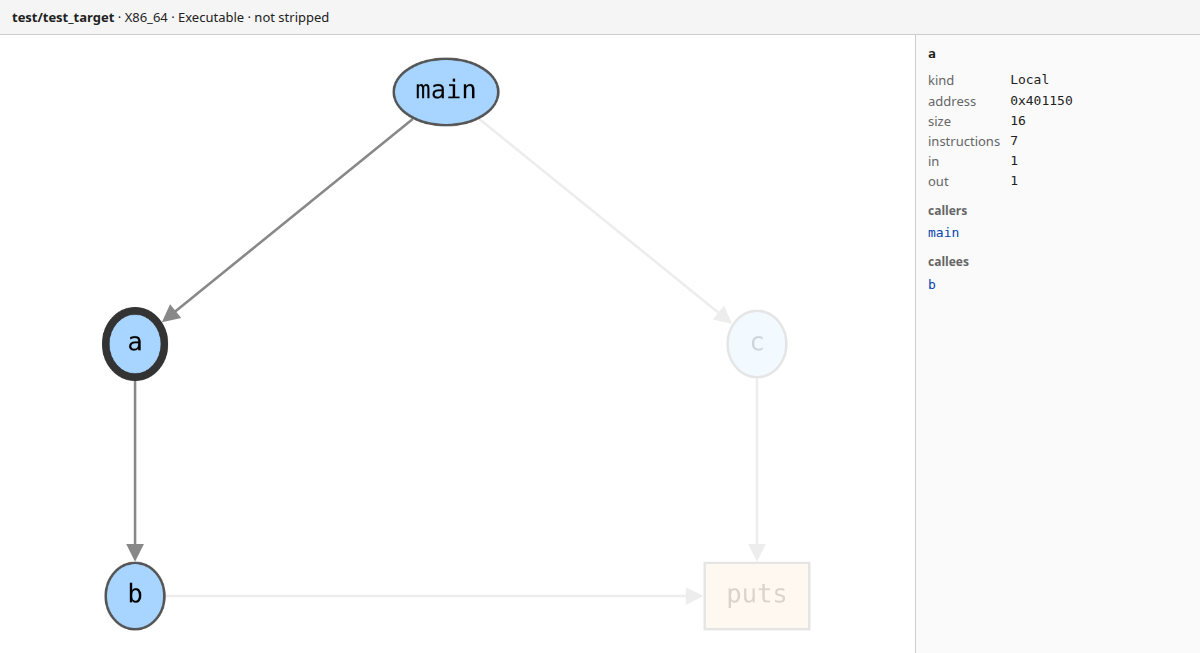
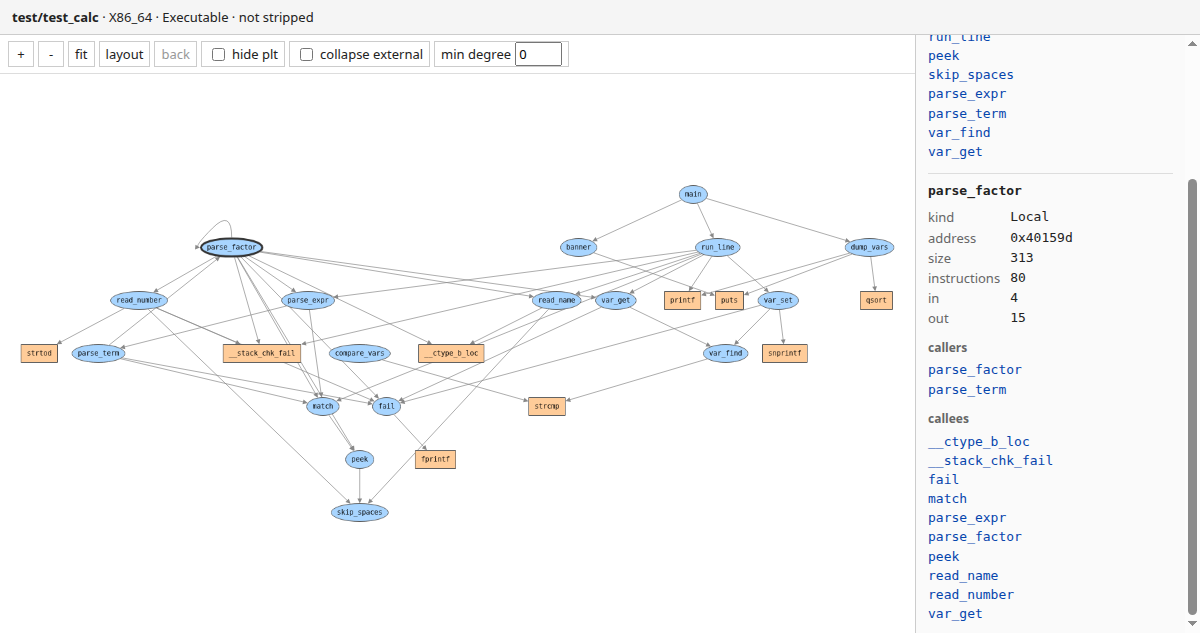
update readme for explorer

diff --git a/README.md b/README.md
@@ -64,14 +64,37 @@ Graph: 5 nodes, 5 edges
 
 `--serve <port>` starts an HTTP server on `127.0.0.1` and keeps it in the
 foreground; the DOT file is written as usual before it comes up. `/` is a single
-page that fetches `/api/report` and draws the graph with cytoscape.js from a
-CDN, so the browser needs network access. Local functions are blue ellipses, PLT
-stubs orange rectangles, unresolved targets grey. Clicking a node highlights its
-neighbourhood and fills the side panel with address, size, instruction count,
-in/out counts and clickable caller and callee lists. `/api/report` serves the
-same report that `--json` writes.
+page that draws the graph with cytoscape.js and dagre from CDNs, so the browser
+needs network access. Local functions are blue ellipses, PLT stubs orange
+rectangles, unresolved targets grey.
+
+Graphs up to 300 nodes are drawn whole. Bigger ones open as an explorer: the
+scene starts at `main` (or the entry point) and a click on a node adds its
+direct callers and callees; a `+` after a name marks neighbours not on screen
+yet. The panel has a substring search over every function, root lists (entry
+point, exported functions, most called) that restart the scene from a new seed,
+and for the selected node its address, size, instruction count, in/out counts
+and clickable caller and callee lists. The toolbar hides PLT stubs, collapses
+PLT and unknown nodes into one `external` node, hides nodes below a degree,
+relays the scene and keeps a breadcrumb trail of seeds. One click brings in at
+most 200 neighbours and the scene holds at most 500 nodes; the status line says
+when either cut applies.
 
 ![binary2graph web UI](docs/webui.png)
+
+## HTTP API
+
+- `/api/meta`: passport, function table and every graph node with its in/out
+  degree, no edges. Loaded once when the page opens.
+- `/api/neighbors?id=N&depth=1&dir=both&budget=200`: breadth-first walk from
+  node `N` (`dir` is `out`, `in` or `both`); returns the visited ids with a
+  `has_more` flag each, the edges among them and `truncated` when the budget
+  stopped the walk.
+- `/api/search?q=text`: case-insensitive substring match over function and node
+  names, at most 50 matches plus the total count.
+- `/api/roots`: node ids of the entry point, exported functions and the ten most
+  called local functions.
+- `/api/report`: the same report that `--json` writes.
 
 ## What the passport reports
 
@@ -95,10 +118,15 @@ same report that `--json` writes.
 - Functions of zero size, or with a body outside `.text`, are skipped.
 - PLT names are read from `.plt.sec`, the layout produced with
   `-fcf-protection`. Without it, calls into the PLT stay as `sub_<address>` nodes.
+- Exported functions come from `.dynsym`, so the list is empty for an executable
+  built without `-rdynamic`.
+- The explorer shows at most 200 neighbours per click; the rest of a hub's
+  callers are reachable through search only.
 
 ## How it works
 
 `object` parses the ELF and hands over symbols, sections and dynamic
 relocations; `iced-x86` decodes each function body to count instructions and
 collect call targets; `petgraph` holds the graph and emits the DOT; `serde_json`
-serialises the full report, and `axum` serves it next to the embedded page.
+serialises the full report, and `axum` serves it next to the embedded page,
+answering neighbourhood queries from adjacency lists built at start-up.
